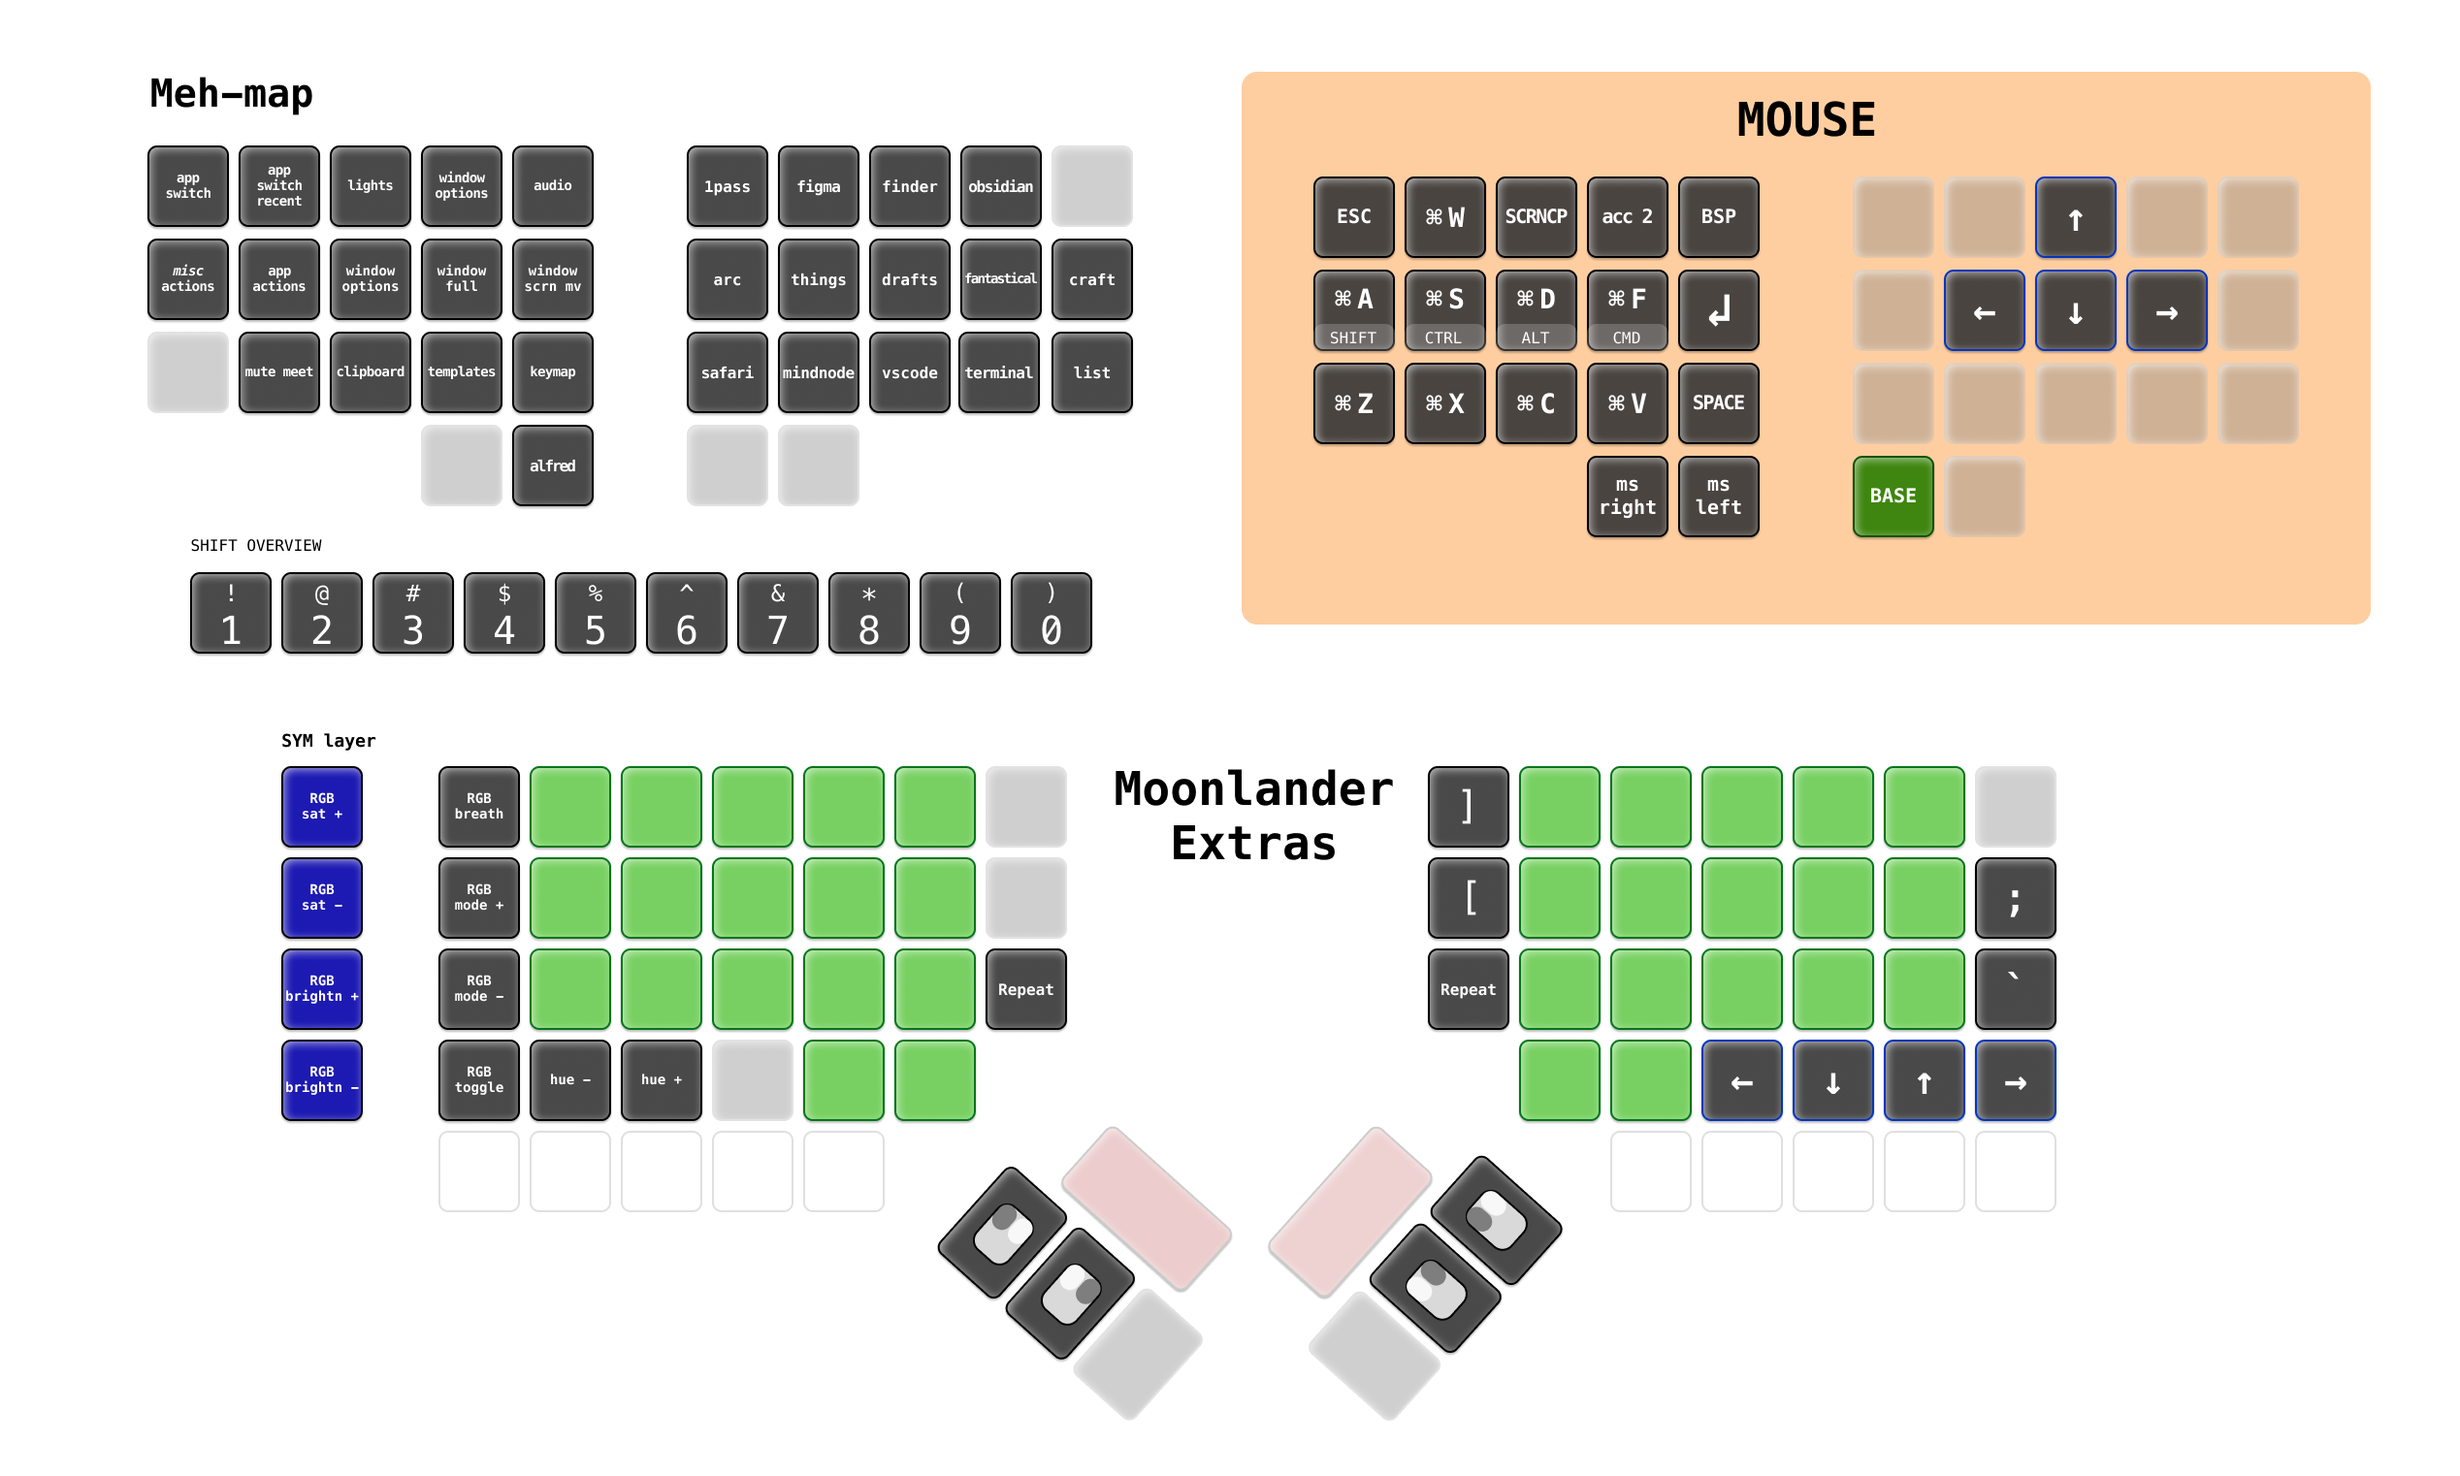
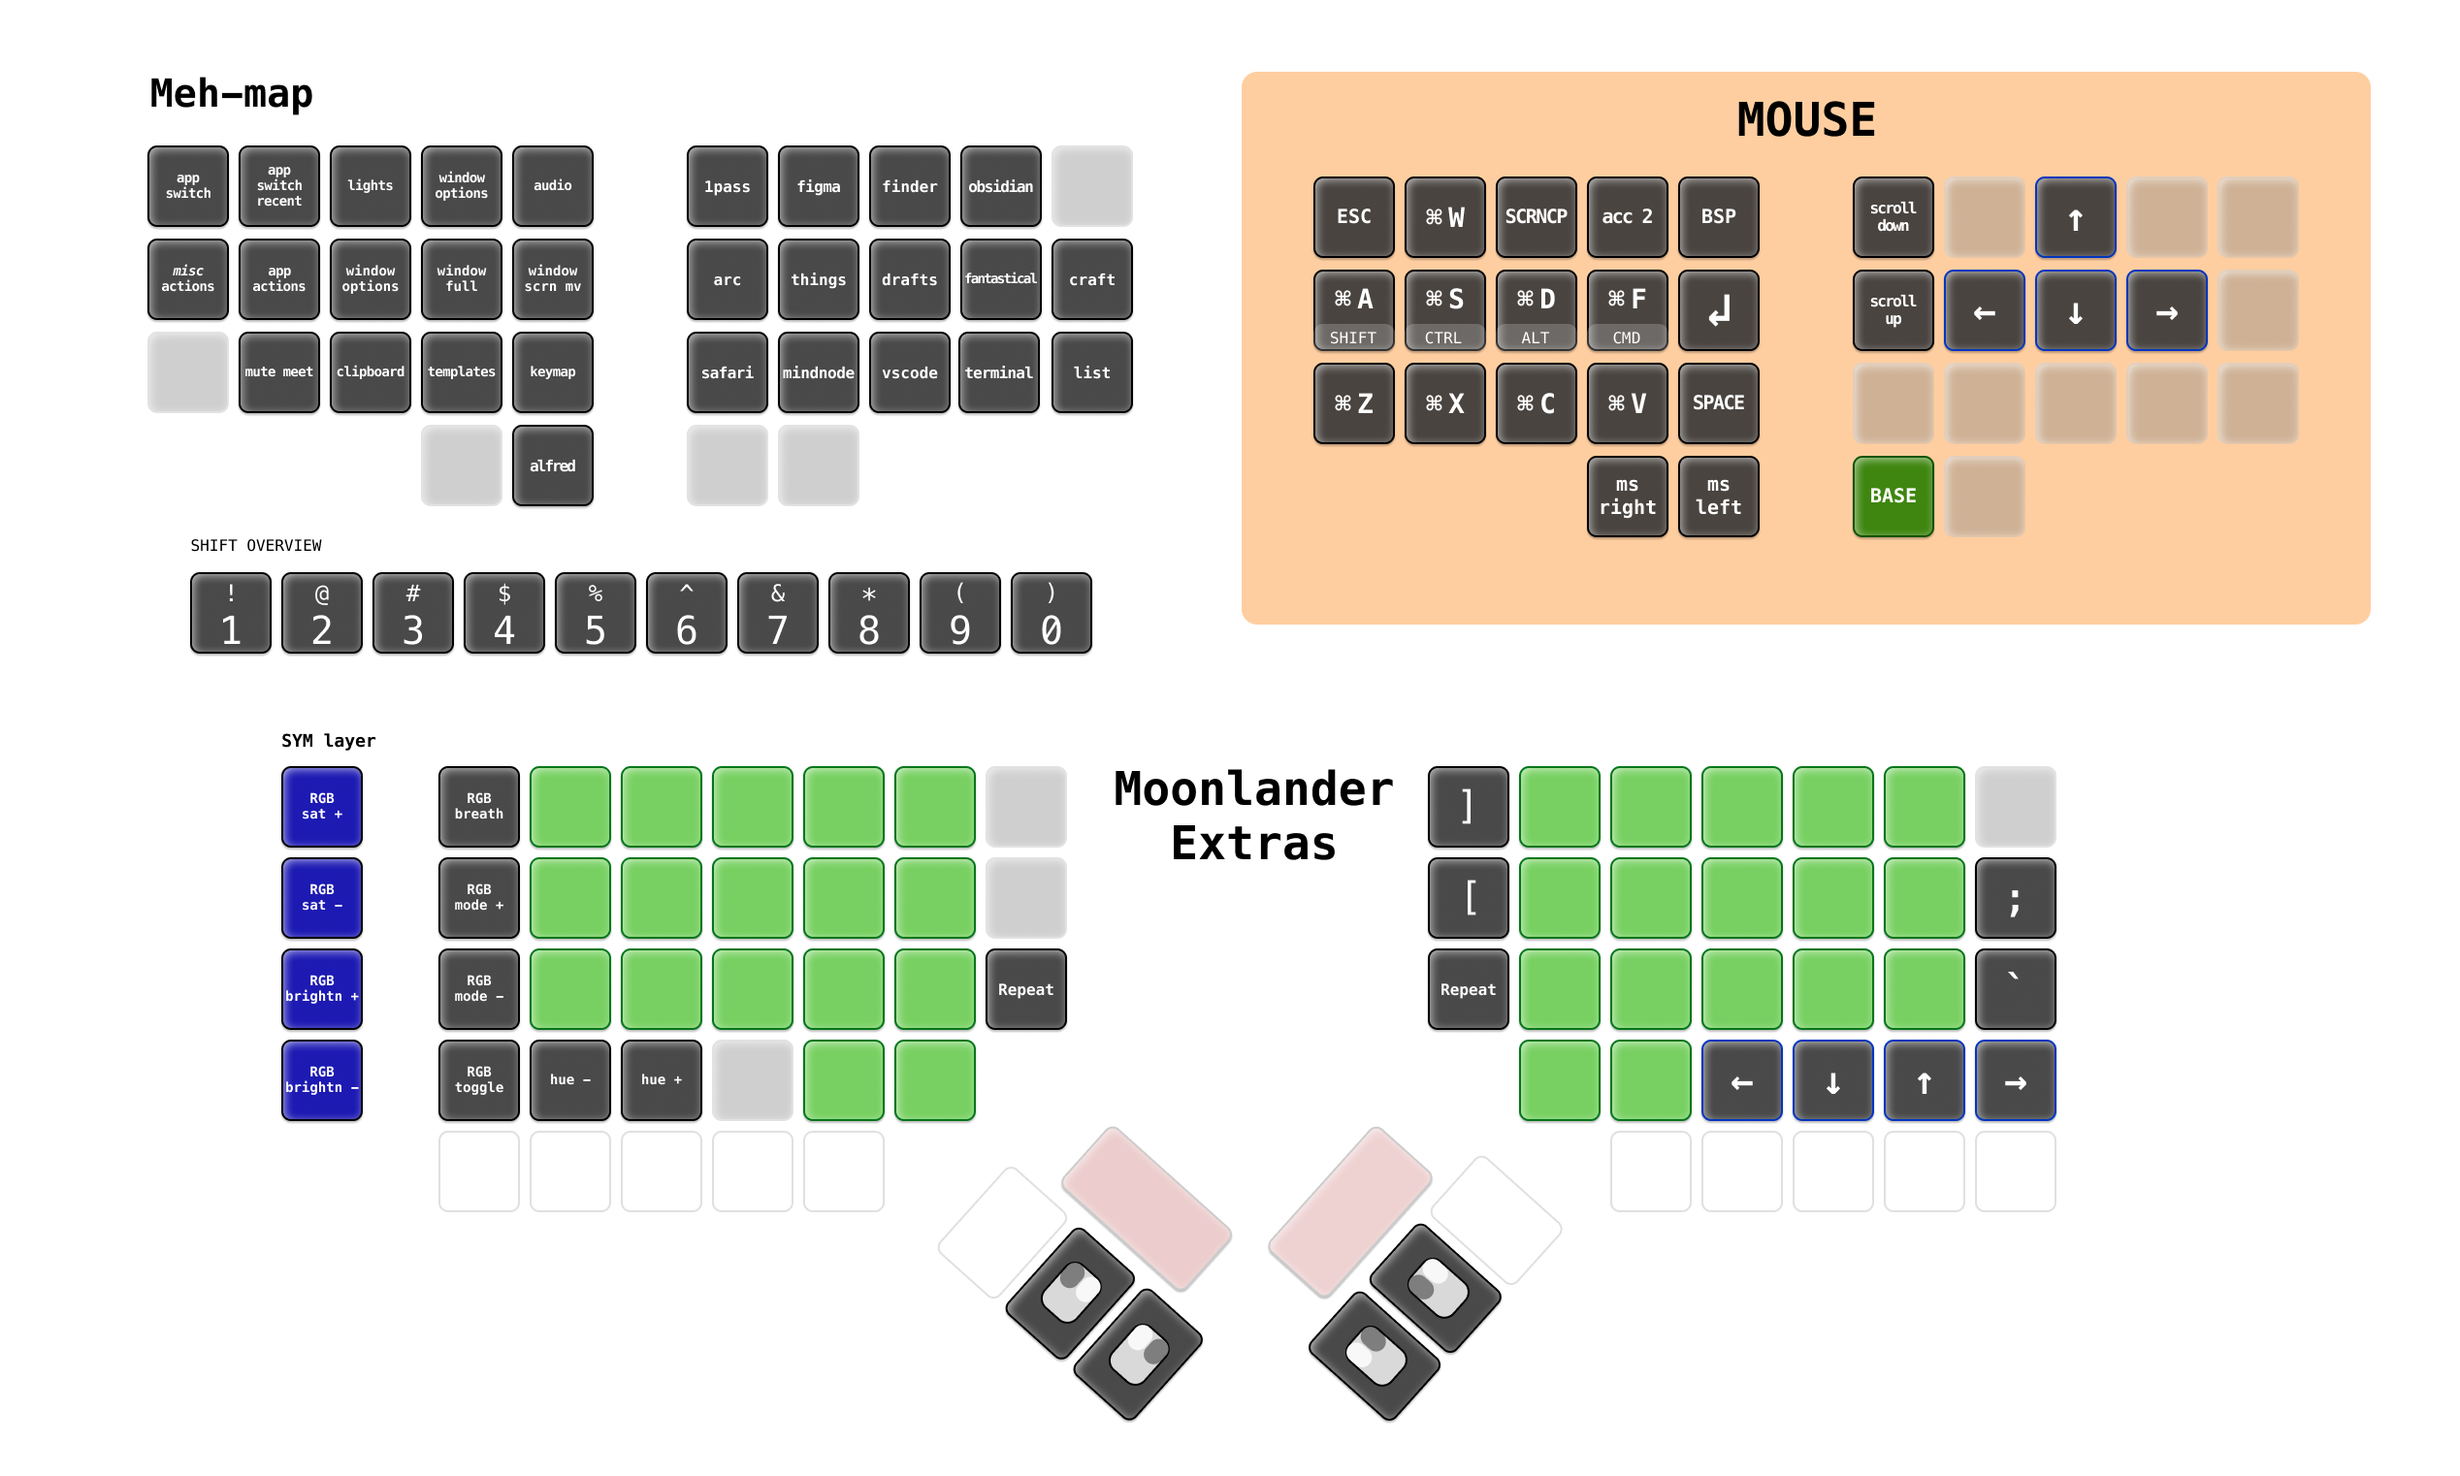
Improved keymap
Added mouse scroll and page up down

Changed region(s): [[0.5296, 0.772, 0.6542, 0.9573], [0.3738, 0.772, 0.4984, 0.9573], [0.7476, 0.0926, 0.8099, 0.247]]

diff --git a/moonlander-mk3/threefourbase.c b/moonlander-mk3/threefourbase.c
@@ -61,11 +61,11 @@ enum tap_dance_codes {
 
 // Mid row
 
-#define KR_0_2_1 MT(MOD_LSFT, KC_A)
-#define KR_0_2_2 MT(MOD_LCTL, KC_S) //LCTL_T(KC_S)
-#define KR_0_2_3 MT(MOD_LALT, KC_D) //LALT_T(KC_D)
+#define KR_0_2_1 LSFT_T(KC_A)
+#define KR_0_2_2 LCTL_T(KC_S)
+#define KR_0_2_3 LALT_T(KC_D)
 #define KR_0_2_4 MEH_T(KC_F)
-#define KR_0_2_5 ALL_T(KC_G)
+#define KR_0_2_5 LGUI_T(KC_G)
 //
 #define KR_0_2_6 KC_H
 #define KR_0_2_7 MEH_T(KC_J)
@@ -220,7 +220,7 @@ enum tap_dance_codes {
 #define KR_3_1_4 KC_DELETE
 #define KR_3_1_5 KC_BSPC
 //
-#define KR_3_1_6 KC_TRNS
+#define KR_3_1_6 KC_PAGE_UP
 #define KR_3_1_7 LGUI(KC_LBRC)
 #define KR_3_1_8 KC_UP
 #define KR_3_1_9 LGUI(KC_RBRC)
@@ -232,7 +232,7 @@ enum tap_dance_codes {
 #define KR_3_2_4 TD(DANCE_4)
 #define KR_3_2_5 KC_ENTER
 //
-#define KR_3_2_6 KC_TRNS
+#define KR_3_2_6 KC_PAGE_DOWN
 #define KR_3_2_7 KC_LEFT
 #define KR_3_2_8 KC_DOWN
 #define KR_3_2_9 KC_RIGHT
@@ -272,7 +272,7 @@ enum tap_dance_codes {
 #define KR_4_1_4 KC_TRNS
 #define KR_4_1_5 KC_BSPC
 //
-#define KR_4_1_6 KC_TRNS
+#define KR_4_1_6 KC_MS_WH_DOWN
 #define KR_4_1_7 KC_TRNS
 #define KR_4_1_8 KC_MS_UP
 #define KR_4_1_9 KC_TRNS
@@ -285,7 +285,7 @@ enum tap_dance_codes {
 #define KR_4_2_4 TD(DANCE_4)
 #define KR_4_2_5 KC_ENTER
 //
-#define KR_4_2_6 KC_TRNS
+#define KR_4_2_6 KC_MS_WH_UP
 #define KR_4_2_7 KC_MS_LEFT
 #define KR_4_2_8 KC_MS_DOWN
 #define KR_4_2_9 KC_MS_RIGHT

diff --git a/technik/threefourbase.c b/technik/threefourbase.c
@@ -61,11 +61,11 @@ enum tap_dance_codes {
 
 // Mid row
 
-#define KR_0_2_1 MT(MOD_LSFT, KC_A)
-#define KR_0_2_2 MT(MOD_LCTL, KC_S) //LCTL_T(KC_S)
-#define KR_0_2_3 MT(MOD_LALT, KC_D) //LALT_T(KC_D)
+#define KR_0_2_1 LSFT_T(KC_A)
+#define KR_0_2_2 LCTL_T(KC_S)
+#define KR_0_2_3 LALT_T(KC_D)
 #define KR_0_2_4 MEH_T(KC_F)
-#define KR_0_2_5 ALL_T(KC_G)
+#define KR_0_2_5 LGUI_T(KC_G)
 //
 #define KR_0_2_6 KC_H
 #define KR_0_2_7 MEH_T(KC_J)
@@ -220,7 +220,7 @@ enum tap_dance_codes {
 #define KR_3_1_4 KC_DELETE
 #define KR_3_1_5 KC_BSPC
 //
-#define KR_3_1_6 KC_TRNS
+#define KR_3_1_6 KC_PAGE_UP
 #define KR_3_1_7 LGUI(KC_LBRC)
 #define KR_3_1_8 KC_UP
 #define KR_3_1_9 LGUI(KC_RBRC)
@@ -232,7 +232,7 @@ enum tap_dance_codes {
 #define KR_3_2_4 TD(DANCE_4)
 #define KR_3_2_5 KC_ENTER
 //
-#define KR_3_2_6 KC_TRNS
+#define KR_3_2_6 KC_PAGE_DOWN
 #define KR_3_2_7 KC_LEFT
 #define KR_3_2_8 KC_DOWN
 #define KR_3_2_9 KC_RIGHT
@@ -272,7 +272,7 @@ enum tap_dance_codes {
 #define KR_4_1_4 KC_TRNS
 #define KR_4_1_5 KC_BSPC
 //
-#define KR_4_1_6 KC_TRNS
+#define KR_4_1_6 KC_MS_WH_DOWN
 #define KR_4_1_7 KC_TRNS
 #define KR_4_1_8 KC_MS_UP
 #define KR_4_1_9 KC_TRNS
@@ -285,7 +285,7 @@ enum tap_dance_codes {
 #define KR_4_2_4 TD(DANCE_4)
 #define KR_4_2_5 KC_ENTER
 //
-#define KR_4_2_6 KC_TRNS
+#define KR_4_2_6 KC_MS_WH_UP
 #define KR_4_2_7 KC_MS_LEFT
 #define KR_4_2_8 KC_MS_DOWN
 #define KR_4_2_9 KC_MS_RIGHT

diff --git a/moonlander-mk3/moonlanderextras.c b/moonlander-mk3/moonlanderextras.c
@@ -1,6 +1,6 @@
-#define THUMB1 KC_MS_BTN1
-#define THUMB2 KC_MS_BTN2
-#define THUMB3 KC_NO
+#define THUMB1 KC_NO
+#define THUMB2 KC_MS_BTN1
+#define THUMB3 KC_MS_BTN2
 
 #define KR_0_1_0  KC_NO
 #define KR_0_1_11 KC_NO
